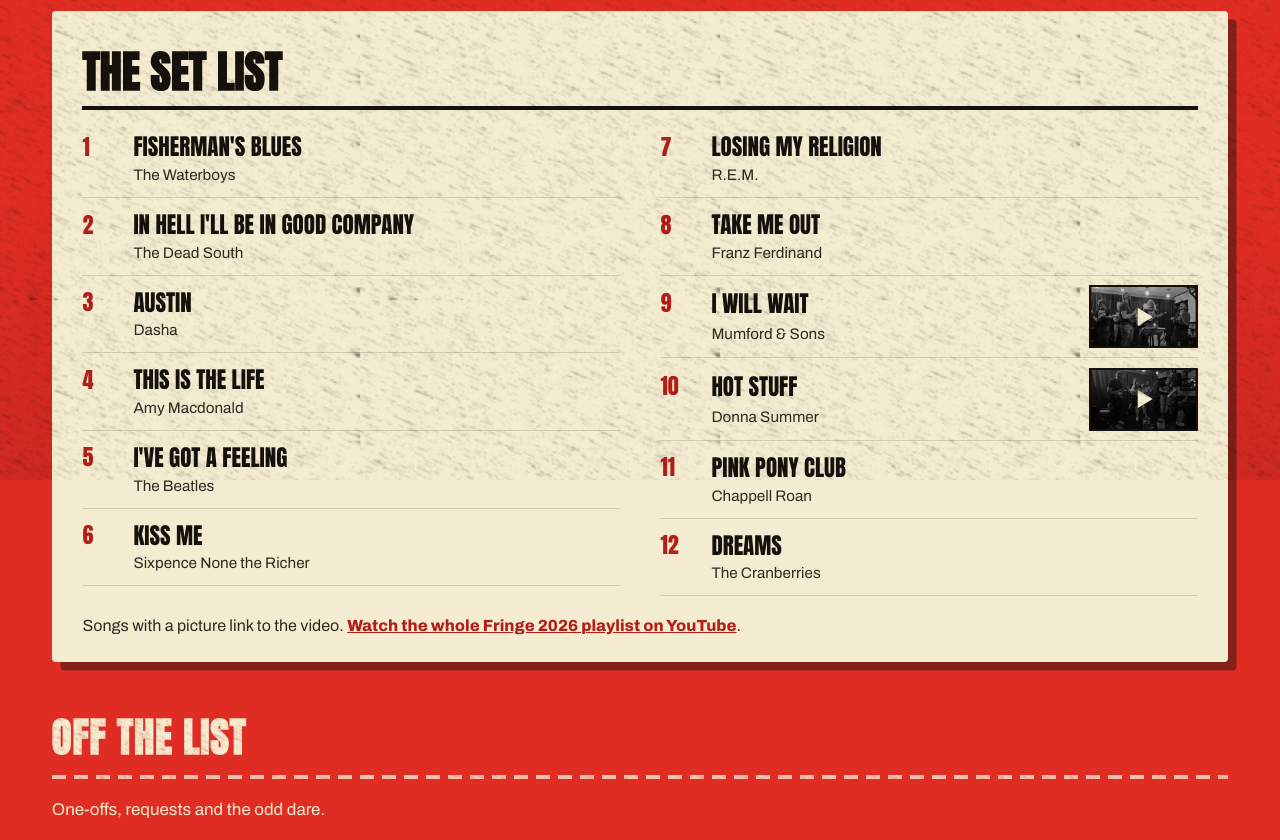
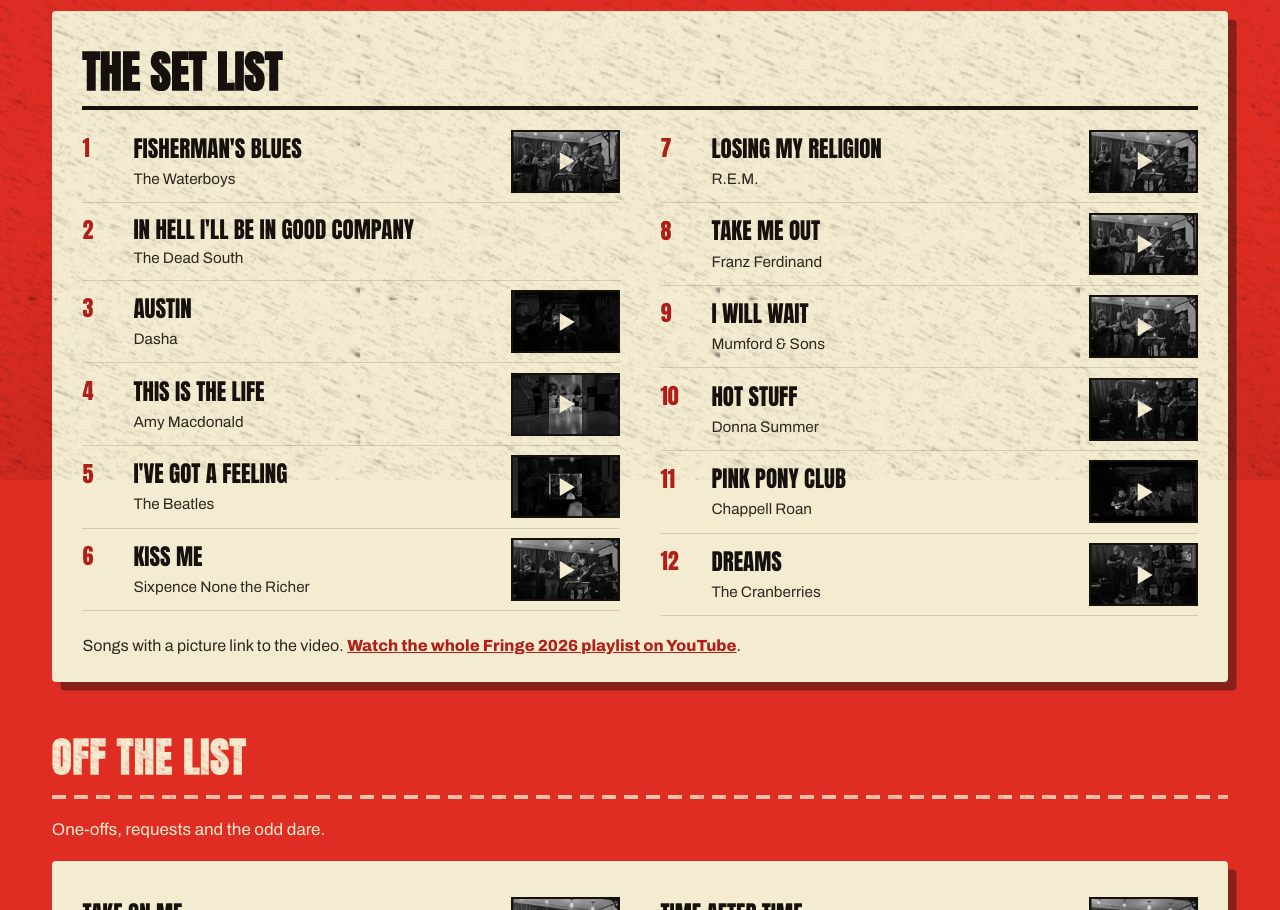
content(site): link the Fringe 2026 videos (#80)

Changed region(s): [[0.0312, 0.031, 0.9688, 1.0], [0.9688, 0.5262, 1.0, 0.5881], [0.0, 0.5262, 0.0312, 0.5881]]

diff --git a/packages/site/content/back-catalogue/fringe-2026.md b/packages/site/content/back-catalogue/fringe-2026.md
@@ -158,21 +158,22 @@ photos:
       alt: "Four players leaning into a chorus at Leith St Andrew's, fiddle on the right.",
     }
 setlist:
-  - { song: "Fisherman's Blues", artist: "The Waterboys" }
+  - { song: "Fisherman's Blues", artist: "The Waterboys", video: "ptfufQ1c3Ic" }
   - { song: "In Hell I'll Be in Good Company", artist: "The Dead South" }
-  - { song: "Austin", artist: "Dasha" }
-  - { song: "This Is the Life", artist: "Amy Macdonald" }
-  - { song: "I've Got a Feeling", artist: "The Beatles" }
-  - { song: "Kiss Me", artist: "Sixpence None the Richer" }
-  - { song: "Losing My Religion", artist: "R.E.M." }
-  - { song: "Take Me Out", artist: "Franz Ferdinand" }
+  - { song: "Austin", artist: "Dasha", video: "MdxD1I9DKp8" }
+  - { song: "This Is the Life", artist: "Amy Macdonald", video: "RBhRtEYLcDg" }
+  - { song: "I've Got a Feeling", artist: "The Beatles", video: "0WcaIuu-gDg" }
+  - { song: "Kiss Me", artist: "Sixpence None the Richer", video: "OvchoH2-P9I" }
+  - { song: "Losing My Religion", artist: "R.E.M.", video: "jAexpe4CUKI" }
+  - { song: "Take Me Out", artist: "Franz Ferdinand", video: "kH69m9UNoN4" }
   - { song: "I Will Wait", artist: "Mumford & Sons", video: "VkAUwBi14nI" }
   - { song: "Hot Stuff", artist: "Donna Summer", video: "_ymUOfXbnZc" }
-  - { song: "Pink Pony Club", artist: "Chappell Roan" }
-  - { song: "Dreams", artist: "The Cranberries" }
+  - { song: "Pink Pony Club", artist: "Chappell Roan", video: "Vow0-bplmzw" }
+  - { song: "Dreams", artist: "The Cranberries", video: "9snf58klM70" }
 extras:
-  - { song: "Take On Me", artist: "a-ha" }
+  - { song: "Take On Me", artist: "a-ha", video: "bFH7kewFXhQ" }
   - { song: "9 to 5", artist: "Dolly Parton" }
+  - { song: "Time After Time", artist: "Cyndi Lauper", video: "mB7n95QVBW4" }
 ---
 
 Ten shows in August: Bowlers Rest in Leith, Fingers Piano Bar in the New Town,
